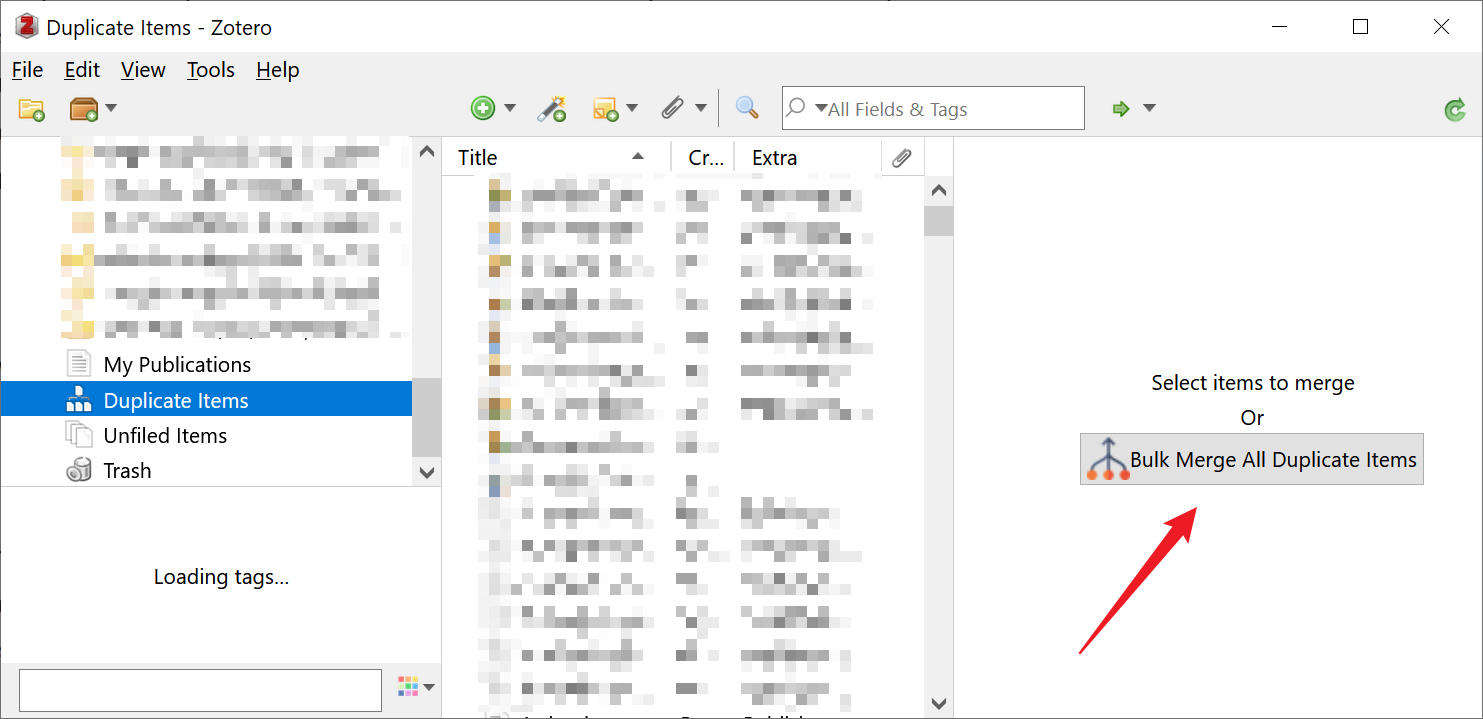
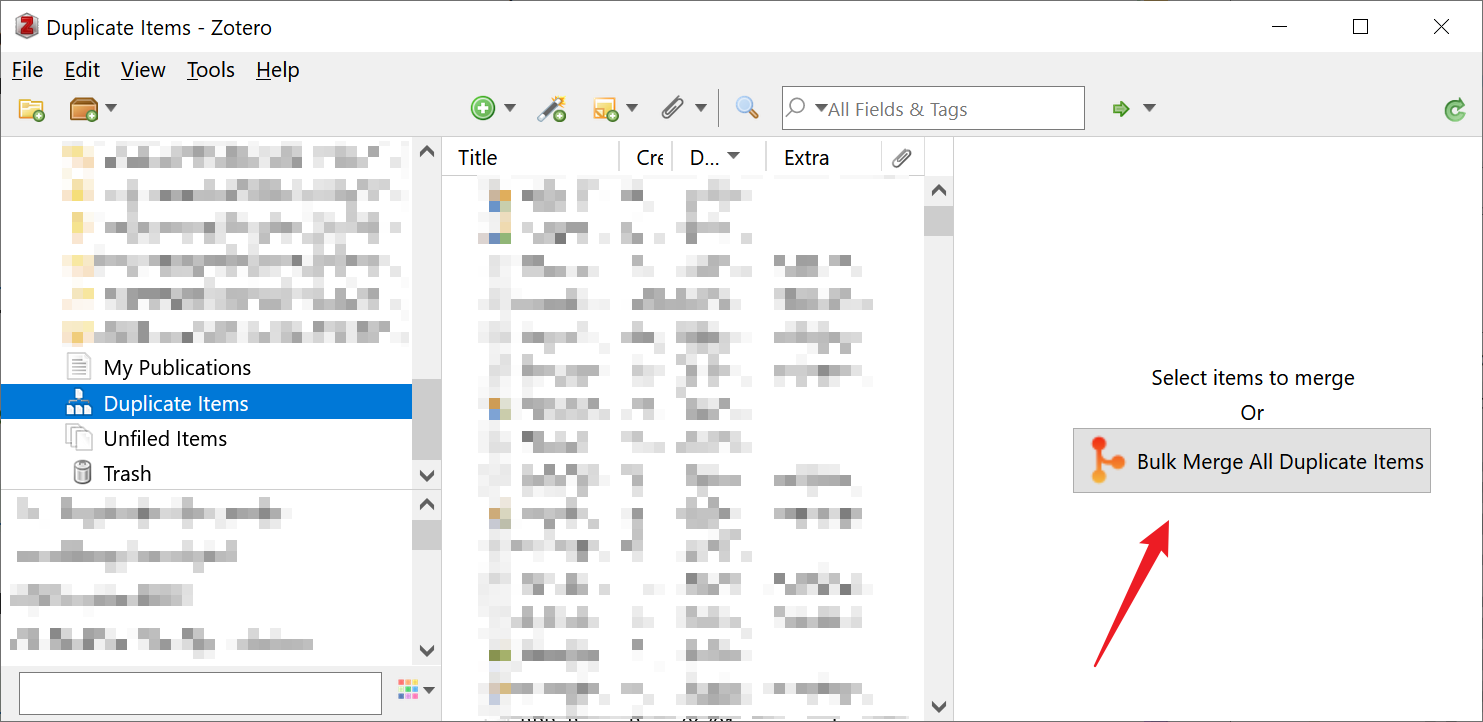
Update README

diff --git a/README.md b/README.md
@@ -63,7 +63,23 @@ Starting from **Version 2.0.0**, the plugin will support **Bulk Merge** function
 
 # Changelog
 
+## v2.1.0
+
+In this version, we have made the following changes:
+
+1. ✨ **NEW!**: We have added the **Suspend** and **Restore** functionality.
+   * Please see [Bulk Merge](#bulk-merge) section below for more details.
+2. 🧬 **CHANGE!**: We have changed the behavior of **Keep Others** action.
+   * Previously, the **Keep Others** action will delete the last imported item and save **ALL** the rest existing items.
+   * Now, the action will **Merge** the existing items based on the **Master Item** preferences in [Settings](#settings).
+3. 🐛 **FIX!**: We have fixed a bug that caused the **tags** could not be loaded correctly in v2.0.0.
+   * Thanks [ChinJCheung](https://github.com/ChinJCheung) for reporting this bug in [issue #10](https://github.com/ChenglongMa/zoplicate/issues/10).
+
+
 ## v2.0.0
+
+<details markdown="1">
+  <summary><i>Click here to show more.</i></summary>
 
 In this version, we have made the following changes:
 
@@ -76,11 +92,16 @@ In this version, we have made the following changes:
 3. 🐛 **FIX!**: Now Zotero will auto-select the remained item after merging duplicate items.
    * Thanks [pencilheart](https://github.com/pencilheart)'s report in [issue #7](https://github.com/ChenglongMa/zoplicate/issues/7).
 
+</details>
+
 ## v1.1.0
+
+<details markdown="1">
+  <summary><i>Click here to show more.</i></summary>
 
 In this version, we have made the following changes:
 
-1. 🧬 **CHANGE!**: We change the processing method of duplicate items.
+1. 🧬 **CHANGE!**: We have changed the processing method of duplicate items.
 
    Previously, we use the `Trash` method to process duplicate items, i.e., delete the duplicate items.
    However, this method will cause the loss of some information of the duplicate items.
@@ -93,6 +114,8 @@ In this version, we have made the following changes:
      * This is a known potential problem in Zotero, as detailed in [Zotero Documentation - Duplicate Detection](https://www.zotero.org/support/duplicate_detection).
 
 Thanks [ChinJCheung](https://github.com/ChinJCheung)'s idea mentioned in [issue #5](https://github.com/ChenglongMa/zoplicate/issues/5).
+
+</details>
 
 # Install
 
@@ -162,10 +185,22 @@ You can also find it when you select one or more duplicate items:
 > 2. The **Bulk Merge** functionality will **take a while** to complete if you have a large number of duplicate items.
 
 You will see the progress of the bulk merge process:
-![zoplicate bulk merge process](docs/progress.png)
+![zoplicate bulk merge process](docs/bulk-merge-progress.png)
+
+### Suspend Bulk Merge
+
+You can click the <kbd>Suspend</kbd> button to suspend the bulk merge process.
+
+A dialog will pop up to confirm your action:
+![zoplicate bulk merge suspend](docs/bulk-merge-suspended-dialog.png)
+
+1. Click <kbd>Resume</kbd> to **resume** the bulk merge process.
+2. Click <kbd>Cancel</kbd> to **cancel** the bulk merge process.
+   * Check <kbd>Restore Deleted Items</kbd> to restore the duplicate items that have been merged.
+   * Note that the **Restore** action is only effective if you click <kbd>Cancel</kbd>. 
 
 > [!TIP]
-> 
+>
 > If you want to **Restore** the duplicate items that have been merged, 
 > you can go to `Trash` panel and restore them.
 > 